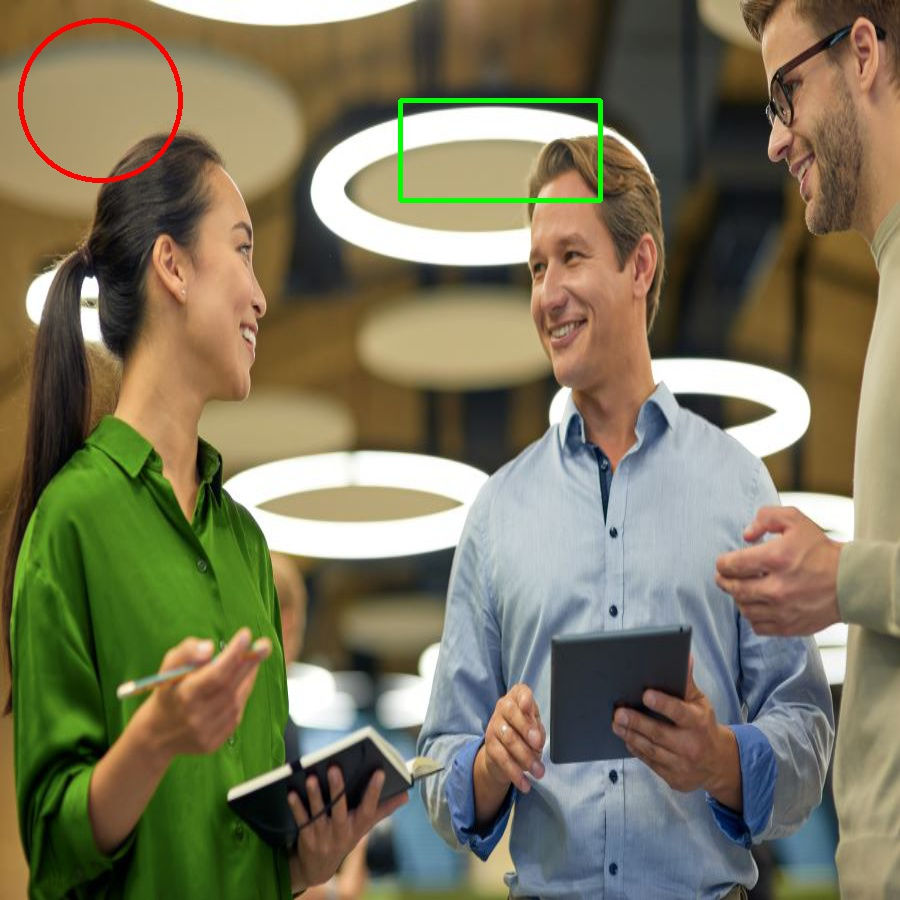
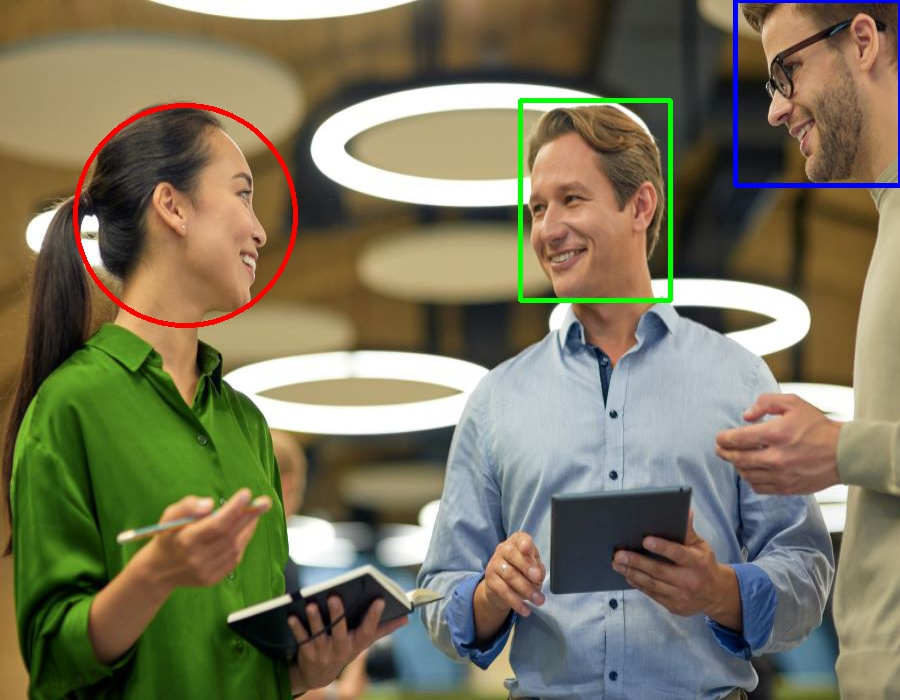
message : update 01_07_ajouter_un_dessin_dans_une_image.py

diff --git a/Exercices/Ch01/01_07_Ajouter_un_dessin_dans_une_image/01_07_ajouter_un_dessin_dans_une_image.py b/Exercices/Ch01/01_07_Ajouter_un_dessin_dans_une_image/01_07_ajouter_un_dessin_dans_une_image.py
@@ -2,27 +2,30 @@ import numpy as np
 import cv2
 
 
-img = cv2.imread("..\\..\\Data\\image_02.jpg")
-cv2.namedWindow("Image")
+img = cv2.imread("../../Data/image_02.jpg")
+cv2.namedWindow("Faces")
 
+# OpenCV uses BGR format instead of RGB
+color_1 = (0,0,255) # Red color in BGR
+color_2 = (0,255,0) # Green color in BGR
+color_3 = (255,0,0) # Blue color in BGR
+line_width = 3 
+radius = 110 
+point_1 = (185,215)
+point_2 = (520,100)
+point_3 = (670,300)
+point_4 = (735,0)
+point_5 = (900,185) 
 
-
-color_1 = (0,0,255)
-color_2 = (0,255,0)
-line_width = 3
-radius = 80
-point_1 = (100,100)
-point_2 = (400,100)
-point_3 = (600,200)
- 
-
-img = cv2.resize(img, (900,900))
+img = cv2.resize(img, (900,700))
 cv2.circle(img, point_1, radius, color_1, line_width)
 cv2.rectangle(img, point_2, point_3, color_2, line_width) 
-cv2.imshow("Image", img)
-cv2.moveWindow("Image", 0, 0)
+cv2.rectangle(img, point_4, point_5, color_3, line_width)
+cv2.imshow("Faces", img)
+cv2.moveWindow("Faces", 0, 0)
+
+cv2.waitKey(0)
 
 cv2.imwrite("image_02_opencv.jpg", img)
 
-cv2.waitKey(0)
 cv2.destroyAllWindows()
